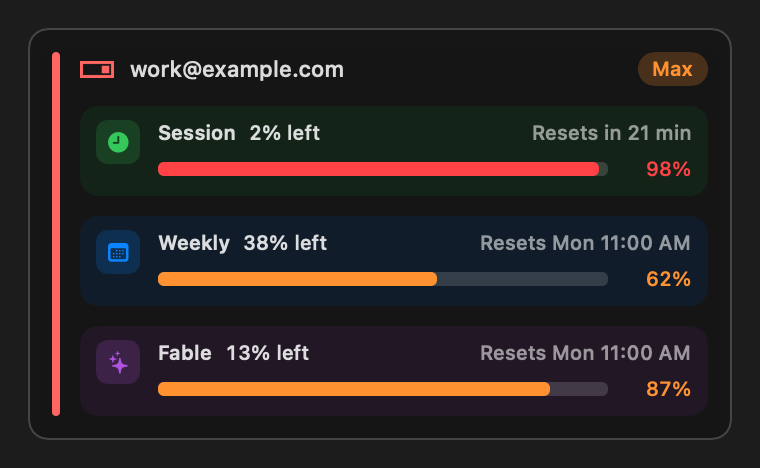
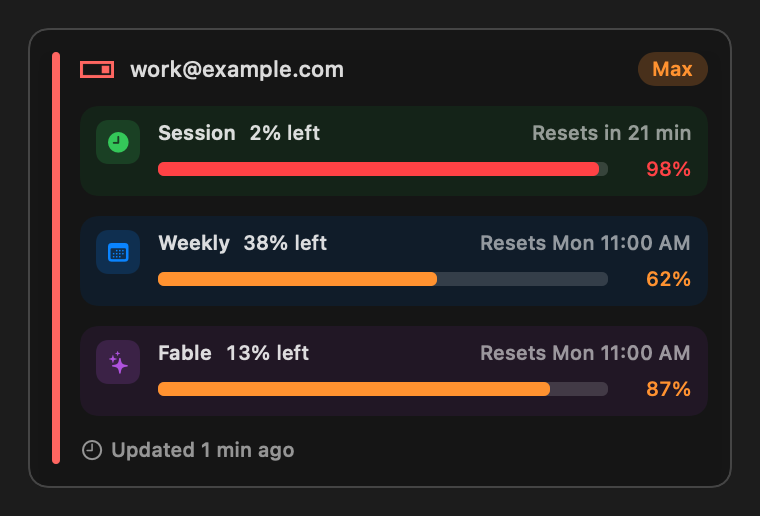
Double-click an account on the Usage tab to switch to it
His request, and then immediately: "you need to make it so when I double
click an account there is movement or something to show that it clicked."
So the feedback is the feature, not a garnish:

- the card presses in (scale 0.96, spring back) the moment the click lands
- the orange active ring moves to that card straight away, before the
  switch completes, so the answer to "did it take?" is instant
- the footer reads "Switching..." with a spinner until it finishes
- hovering a switchable card lifts it slightly, shows "Double-click to
  switch" and a pointing-hand cursor, so the gesture is discoverable

A switch can take a second or two to report anything, and a card that does
not move in that time reads as a click that missed, so people click again.

Double, not single: the Usage tab is a read-and-scroll surface and a single
click would swap a live Claude login while someone was reading a number.
Guarded by canSwitch: never the active account, never while another switch
or a login is in flight. AppState gained a published switchingTo so the
interface can show WHICH card is moving; nothing observed that before, and
the Accounts tab's Switch button had no progress indicator at all.

Two things caught before shipping. The hint first went in the header, next
to an address that already truncates on a real account
(claude@bespokewoodc...), so both hint and status moved to the footer line.
And the hover handler called NSCursor.pop() even when it had not pushed,
[…]

diff --git a/PixelSwitch/Views/UsageDashboardView.swift b/PixelSwitch/Views/UsageDashboardView.swift
@@ -27,6 +27,15 @@ struct UsageDashboardView: View {
     @AppStorage(EmailDisplay.key) private var maskEmails = false
     /// Settings → Appearance. Off restores the plain, uncoloured cards.
     @AppStorage(AccountColorCoding.key) private var colorCodeAccounts = true
+    /// Which card the pointer is over, so it can offer the double-click.
+    @State private var hoveredAccount: UUID?
+    /// The card whose hover pushed the pointing-hand cursor, so exactly one
+    /// pop answers it. See `pushPointingHand`.
+    @State private var cursorPushedFor: UUID?
+    /// Which card was just double-clicked. Held for a moment so the press
+    /// animation is visible: a switch can take a second or two to report
+    /// anything, and until it does the click must still look like it landed.
+    @State private var pressedAccount: UUID?
 
     var body: some View {
         ScrollView {
@@ -228,7 +237,7 @@ struct UsageDashboardView: View {
             if let usage = usage {
                 usageBars(usage)
                 extraUsageRow(usage.extraUsage)
-                sampleAgeLabel(account)
+                cardFooter(account)
             } else if let errorState = appState.accountUsageErrors[account.id] {
                 HStack {
                     Image(systemName: errorState.isRateLimited ? "timer" : (errorState.isExpired ? "exclamationmark.triangle" : "xmark.circle"))
@@ -260,16 +269,114 @@ struct UsageDashboardView: View {
         // the way round. The small green "Active" badge is still there, but a
         // badge has to be hunted for; a ring is seen without reading anything.
         .cardStyle(
-            border: account.isActive ? .activeAccountRing : .cardBorder,
-            borderWidth: account.isActive ? 2 : 1
+            border: borderColor(for: account),
+            borderWidth: (account.isActive || appState.switchingTo == account.id) ? 2 : 1
         )
+        // The click has to be FELT. A switch can take a second or two before it
+        // reports anything, and a card that does not move in that time reads as
+        // a click that missed, so people click again.
+        .scaleEffect(pressedAccount == account.id ? 0.96 : (hoveredAccount == account.id && canSwitch(to: account) ? 1.01 : 1.0))
+        .animation(.spring(response: 0.25, dampingFraction: 0.6), value: pressedAccount)
+        .animation(.easeOut(duration: 0.12), value: hoveredAccount)
+        .animation(.easeInOut(duration: 0.2), value: appState.switchingTo)
+        // Double-click rather than single, on purpose: this is a scrolling,
+        // readable surface, and a single click would switch a live Claude login
+        // while someone was only trying to read a number off it.
+        .contentShape(Rectangle())
+        .onTapGesture(count: 2) { switchByDoubleClick(to: account) }
+        .onHover { hovering in
+            if hovering {
+                hoveredAccount = account.id
+                // A pointing hand is the only thing that says "this is
+                // clickable" before anyone has clicked it.
+                pushPointingHand(for: account)
+            } else {
+                if hoveredAccount == account.id { hoveredAccount = nil }
+                popPointingHand(for: account)
+            }
+        }
+        // The popover can close while the pointer is still over a card, and
+        // onHover does not fire on the way out. Without this the pointing hand
+        // would be left on the stack for the rest of the session.
+        .onDisappear { popPointingHand(for: account) }
         .sectionPadding()
+    }
+
+    /// `NSCursor` is a STACK: every `push` needs exactly one `pop`. Popping
+    /// without having pushed removes whatever another view put there, so both
+    /// are recorded against the card that did them.
+    private func pushPointingHand(for account: Account) {
+        guard cursorPushedFor == nil, canSwitch(to: account) else { return }
+        NSCursor.pointingHand.push()
+        cursorPushedFor = account.id
+    }
+
+    private func popPointingHand(for account: Account) {
+        guard cursorPushedFor == account.id else { return }
+        NSCursor.pop()
+        cursorPushedFor = nil
+    }
+
+    /// Orange while this account is live OR while a switch is moving to it, so
+    /// the ring travels to the card you picked before the switch completes.
+    private func borderColor(for account: Account) -> Color {
+        if appState.switchingTo == account.id { return .activeAccountRing }
+        return account.isActive ? .activeAccountRing : .cardBorder
+    }
+
+    /// True when a double-click on this card would actually do something: not
+    /// the account already live, and nothing else mid-switch.
+    private func canSwitch(to account: Account) -> Bool {
+        !account.isActive && appState.switchingTo == nil && !appState.isLoggingIn
+    }
+
+    private func switchByDoubleClick(to account: Account) {
+        guard canSwitch(to: account) else { return }
+        popPointingHand(for: account)
+        Task {
+            // Press, then release. Both halves are visible because the release
+            // is a spring, and the "Switching…" label takes over from here.
+            pressedAccount = account.id
+            try? await Task.sleep(for: .milliseconds(140))
+            pressedAccount = nil
+            await appState.switchTo(account)
+        }
     }
 
     /// Accounts are polled round-robin (active + one other per cycle), so a
     /// card's numbers can be several cycles old — say so instead of letting a
     /// stale percentage render exactly like a live one. Hidden while the sample
     /// is fresh (< 90s); the relative text then counts up by itself.
+    /// The bottom line of a card: how old the numbers are on the left, and what
+    /// clicking would do on the right.
+    ///
+    /// Both live here rather than in the header because the header already
+    /// holds an address that truncates on a real account
+    /// (`claude@bespokewoodc...`), and squeezing a hint in beside it would eat
+    /// the one thing the card exists to identify.
+    @ViewBuilder
+    private func cardFooter(_ account: Account) -> some View {
+        HStack(spacing: 6) {
+            sampleAgeLabel(account)
+            Spacer(minLength: 4)
+            if appState.switchingTo == account.id {
+                HStack(spacing: 4) {
+                    ProgressView().controlSize(.small).scaleEffect(0.6)
+                    Text("Switching…")
+                        .font(.caption2.weight(.semibold))
+                }
+                .foregroundStyle(.activeAccountRing)
+                .transition(.opacity)
+            } else if hoveredAccount == account.id && canSwitch(to: account) {
+                Text("Double-click to switch")
+                    .font(.caption2)
+                    .foregroundStyle(.textSecondary)
+                    .transition(.opacity)
+            }
+        }
+        .frame(minHeight: 14)
+    }
+
     @ViewBuilder
     private func sampleAgeLabel(_ account: Account) -> some View {
         if let sampledAt = appState.accountUsageSampledAt[account.id],

diff --git a/Tools/screenshots/make_screenshots.swift b/Tools/screenshots/make_screenshots.swift
@@ -52,6 +52,9 @@ private struct Card: View {
     let config: MenuBarConfig
 
     let logo: Image
+    /// "", "hover" or "switching": the three states a card can be in once
+    /// double-click-to-switch exists.
+    var interaction: String = ""
 
     private func row(_ kind: LimitBarKind, _ title: LocalizedStringKey, _ used: Double, _ reset: String) -> UsageLimitRow {
         UsageLimitRow(kind: kind, title: title, utilization: used, resetText: reset,
@@ -94,11 +97,33 @@ private struct Card: View {
                 row(.session, "Session", account.session, account.sessionReset)
                 row(.weekly, "Weekly", account.weekly, account.weekReset)
                 row(.fable, "Fable", account.fable, account.weekReset)
+
+                HStack(spacing: 6) {
+                    HStack(spacing: 3) {
+                        Image(systemName: "clock").font(.caption2)
+                        Text("Updated 1 min ago").font(.caption2)
+                    }
+                    .foregroundStyle(.secondary)
+                    Spacer(minLength: 4)
+                    if interaction == "switching" {
+                        HStack(spacing: 4) {
+                            Image(systemName: "arrow.triangle.2.circlepath").font(.caption2)
+                            Text("Switching…").font(.caption2.weight(.semibold))
+                        }
+                        .foregroundStyle(Color.activeAccountRing)
+                    } else if interaction == "hover" {
+                        Text("Double-click to switch")
+                            .font(.caption2)
+                            .foregroundStyle(.secondary)
+                    }
+                }
+                .frame(minHeight: 14)
             }
         }
+        .scaleEffect(interaction == "hover" ? 1.01 : 1.0)
         .cardStyle(
-            border: account.active ? .activeAccountRing : .cardBorder,
-            borderWidth: account.active ? 2 : 1
+            border: (account.active || interaction == "switching") ? .activeAccountRing : .cardBorder,
+            borderWidth: (account.active || interaction == "switching") ? 2 : 1
         )
     }
 }
@@ -190,6 +215,16 @@ enum Screenshots {
 
                 write(autoSwitch(config: config, logo: logo, scheme: scheme),
                       width: 420, scheme: scheme, to: "\(out)/auto-switch-\(name).png")
+
+                write(VStack(alignment: .leading, spacing: 12) {
+                        Text("Resting").font(.caption.weight(.semibold)).foregroundStyle(.secondary)
+                        Card(account: sample[2], config: config, logo: logo)
+                        Text("Pointer over it").font(.caption.weight(.semibold)).foregroundStyle(.secondary)
+                        Card(account: sample[2], config: config, logo: logo, interaction: "hover")
+                        Text("Double-clicked").font(.caption.weight(.semibold)).foregroundStyle(.secondary)
+                        Card(account: sample[2], config: config, logo: logo, interaction: "switching")
+                      },
+                      width: 400, scheme: scheme, to: "\(out)/switch-states-\(name).png")
             }
         }
     }

diff --git a/PixelSwitch/AppState.swift b/PixelSwitch/AppState.swift
@@ -37,6 +37,10 @@ final class AppState: ObservableObject {
     }
     
     @Published var accountUsageErrors: [UUID: UsageErrorState] = [:]
+    /// The account a switch is currently moving to, so a card can show that it
+    /// is the one being switched to. Nil when nothing is in flight. `isSwitching`
+    /// below is the guard; this is purely what the interface reads.
+    @Published var switchingTo: UUID?
 
     // MARK: - Services
 
@@ -448,7 +452,11 @@ final class AppState: ObservableObject {
             return
         }
         isSwitching = true
-        defer { isSwitching = false }
+        switchingTo = account.id
+        defer {
+            isSwitching = false
+            switchingTo = nil
+        }
 
         // Whose login is live, proven by Anthropic's API from the token (never
         // from ~/.claude.json, which running sessions rewrite). If it already

diff --git a/RELEASE_NOTES.md b/RELEASE_NOTES.md
@@ -1,27 +1,21 @@
-## PixelSwitch 1.0.14
+## PixelSwitch 1.0.15
 
-### Changed
+### New
 
-- **PixelSwitch now cleans up after itself.** 1.0.12 moved your accounts onto PixelSwitch's own keychain item and preference key, and deliberately left the old ones behind as a way back to an earlier build. This release removes them, once and only once the new ones have been read back and proven to hold exactly the same accounts.
+- **Double-click any account on the Usage tab to switch to it.** No trip to the Accounts list: point at a card, double-click, done.
 
-Three reasons it is better this way. The old keychain item was a **second copy of every account's OAuth token**, sitting there indefinitely with nothing maintaining it. An older build that found it would carry on writing to it, so the two stores would drift apart and whichever build ran last would look wrong. And it kept another app's name in your keychain, which is what it was called.
+It tells you it heard you. The card presses in the moment you double-click, the orange ring moves across to it straight away, and the bottom of the card reads **Switching…** until the switch actually lands, which can take a second or two. Hovering a card you are not signed in to shows **Double-click to switch** and a pointing-hand cursor, so the gesture is not a secret.
 
-Removed on first launch, after verification: the old keychain item, the old accounts preference key, the stale migration flag, and the empty `~/.ccswitcher` folder. **If the read-back does not match, nothing is deleted** and the app carries on exactly as before.
+Double rather than single, deliberately: the Usage tab is something you read and scroll, and a single click would swap your live Claude login while you were only trying to read a number off it. Double-clicking the account you are already on does nothing, and clicks are ignored while a switch is in flight.
 
-1.0.13 only did this on the single launch where your accounts moved across, which missed a real case: running an older build after updating re-creates the old copies, and nothing would ever clear them again. The clean-up now also runs whenever the current store is healthy and an old copy is found beside it, whatever put it there. That check is a delete with no read, so it never raises a keychain prompt of its own, and it is tried once per launch rather than on every refresh.
+The hint and the status sit on the bottom line of the card rather than next to the address, because real addresses are long enough to truncate there already.
 
-### If you are updating from an older build
+#### Included from 1.0.14 to 1.0.2
 
-Everything happens by itself. Your accounts move across, get verified, and the old copies are cleared. macOS asks once whether PixelSwitch may use its saved credentials, because the item it is asking about is a new one: click **Always Allow**.
-
-Updating through **Check for Updates** works and has been tested end to end on an unsigned build, from 1.0.9 to the current release.
-
-#### Included from 1.0.13 to 1.0.2
-
-- PixelSwitch's own keychain item, home folder and preference key; whole email addresses, with masking as an opt-in; limit rows in plain readable text; the account you are signed in to ringed in orange; the PixelSwitch mark beside every account; a colour per account; a switch for Fable auto-switching; honest cost totals; auto-switch covering the weekly Fable allowance; MCP logins that survive a switch; a switch that cannot mix up two accounts; and [NOTICE.md](NOTICE.md), which states the licensing position honestly.
+- The app clears the identifiers it inherited from the project it was forked from, once it has verified your accounts read back from their new home; whole email addresses, with masking as an opt-in; limit rows in plain readable text; the account you are signed in to ringed in orange; the PixelSwitch mark beside every account; a colour per account; a switch for Fable auto-switching; honest cost totals; auto-switch covering the weekly Fable allowance; MCP logins that survive a switch; a switch that cannot mix up two accounts; and [NOTICE.md](NOTICE.md), which states the licensing position honestly.
 
 ### Good to know
 
 - This build is not signed with an Apple Developer ID yet. On a fresh install, clear the download flag with `xattr -dr com.apple.quarantine /Applications/PixelSwitch.app`, or use System Settings → Privacy & Security → Open Anyway. Updating in place through Check for Updates does not need this.
 
-**Full Changelog**: https://github.com/BespokeWoodcraftStudio/PixelSwitch/compare/v1.0.13...v1.0.14
+**Full Changelog**: https://github.com/BespokeWoodcraftStudio/PixelSwitch/compare/v1.0.14...v1.0.15

diff --git a/README.md b/README.md
@@ -78,6 +78,7 @@ This account is nearly out of its session and has 13% of its Fable left. With au
 - **Usage Dashboard**: Every account's limits in the menu bar dropdown — 5-hour session, weekly, and the weekly **Fable** allowance — each showing how much is left and when it resets, plus today's API-equivalent cost and activity stats (turns, active minutes, lines written, model breakdown). Each limit has its own colour and symbol that never change with usage (green clock, blue calendar, purple sparkle), while the bar itself fills and turns red as the limit runs out, so two limits that are both nearly gone still read apart at a glance.
 - **Auto-switch before a limit stops you**: when the active account reaches your threshold on its session, weekly or Fable limit, PixelSwitch switches to the account with the most room left on that limit — and only to one that is also clear of its other limits, so it never has to move you twice. If no account has room, it stays put. Fable switching has its own on/off switch, so you can keep session and weekly switching while leaving Fable as a reading. A 5-minute cooldown and a 10-point hysteresis margin stop any ping-ponging, and the chosen account is re-checked with a fresh reading before the switch happens.
 - **A colour per account**: each account has its own colour, shown as a bar down the edge of its card and on its icon, so you know whose numbers you are reading before you read the address. Ten colours, repeating only past ten accounts, and each account keeps its colour between launches. Turn it off in **Settings → Account display**.
+- **Double-click an account to switch to it**, right from the Usage tab, without opening the Accounts list. The card presses in as it registers, the orange ring moves to it, and it says "Switching…" until the switch lands. Double rather than single on purpose: the Usage tab is a surface you read and scroll, and a single click would swap your live Claude login while you were looking at a number.
 - **The live account is ringed in orange**: the account you are signed in to right now carries a bright orange ring right round its card, on the Usage tab and in the Accounts list, so you find it without reading anything.
 - **Honest cost history**: the Costs tab totals only the history PixelSwitch actually keeps, which is bounded by your usage history window. A "Last 7 days" or "Last 30 days" total appears only when that much history exists; otherwise one card states the real span.
 - **Configurable Menu Bar Modules**: Build your own iStats-style menu bar readout. Choose any combination of the PixelSwitch logo, account name, 5-hour session usage, weekly usage, Fable usage, today's cost, and session/weekly reset countdowns — each rendered as a compact two-line module (label over value, with monochrome progress bars for utilization). Drag to reorder and toggle modules in Settings, with a live preview.
